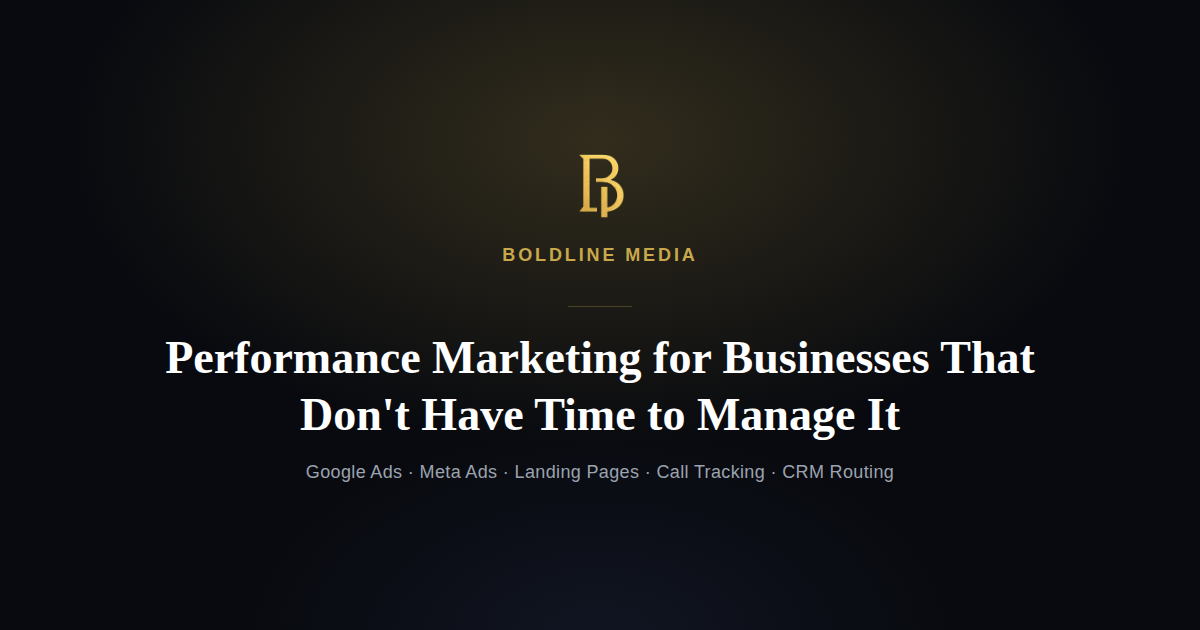
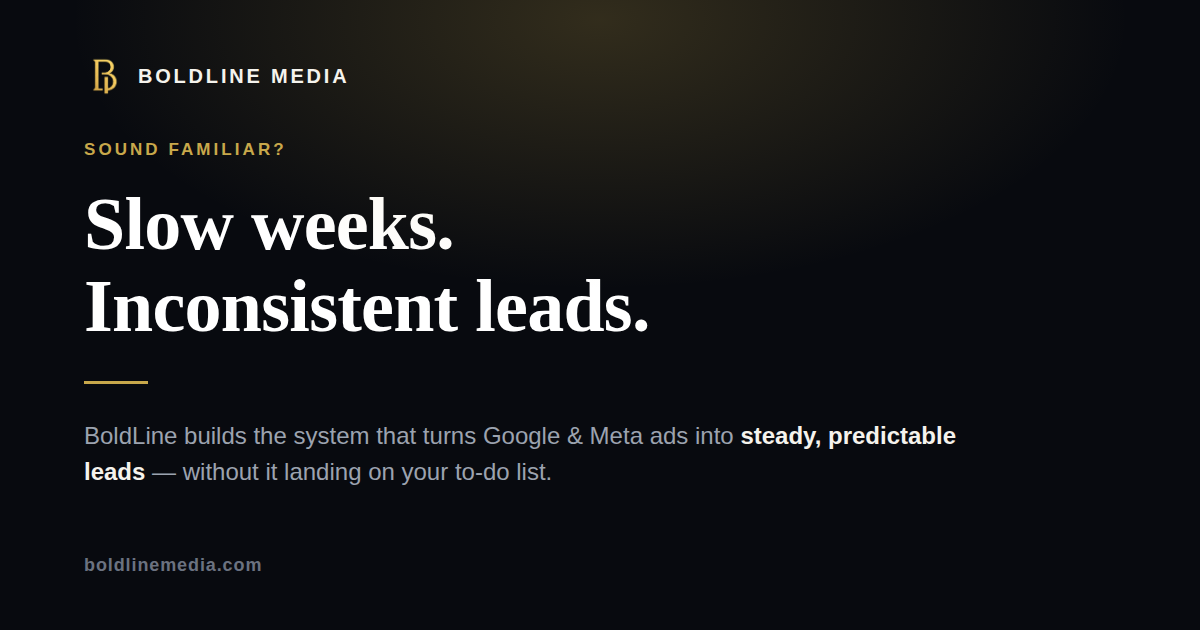
Marketing site v3.0: conversion + aesthetic additions
Adds a fuller funnel and the first visuals to the site:
- Lead-capture form in contact (Netlify Forms) as a low-friction path beside
  Book a Call; honeypot + AJAX success + no-JS fallback.
- "Leads show up sorted" showcase: a pure CSS/HTML lead-feed mockup (first
  real visual), labeled as an illustration.
- FAQ section (native <details>, no-JS safe) + FAQPage JSON-LD.
- Founder note + monogram avatar (placeholder headshot) for human trust.
- Recommender quiz now captures an optional email at the result step.
- Mobile sticky "Book a Call" bar that slides up on scroll.
- Refreshed og-image.png to the pain-led positioning.

Fixed a CSS source-order bug so the new sections' mobile overrides win
(showcase stacks, sticky bar shows). Verified: scripts pass node --check,
overflow clean at 1440/390/360, no JS errors, all states screenshotted.
Owner setup owed: enable Netlify Forms notifications; add a real founder
photo (documented in INTEGRATIONS.md TODO #9-10).

Claude-Session: https://claude.ai/code/session_01TTbUKHBSg7SU5ChV1NCkMy

diff --git a/marketing-site/index.html b/marketing-site/index.html
@@ -24,6 +24,9 @@
 <script type="application/ld+json">
 {"@context":"https://schema.org","@type":"Organization","name":"BoldLine Media","url":"https://boldlinemedia.com/","logo":"https://boldlinemedia.com/logo.png","description":"BoldLine Media plans, builds, and manages Google and Meta ad campaigns — and the landing pages behind them — for a select roster of businesses.","email":"[email redacted]","knowsAbout":["Google Ads management","Meta Ads management","Landing page design","Call tracking","CRM lead routing"]}
 </script>
+<script type="application/ld+json">
+{"@context":"https://schema.org","@type":"FAQPage","mainEntity":[{"@type":"Question","name":"How much does this cost?","acceptedAnswer":{"@type":"Answer","text":"Our management fee depends on the platforms and tier that fit your goals, which we walk you through on a call. Separately, most clients run an ad budget of around $1,000/month or more, paid directly to Google or Meta — you always own that account."}},{"@type":"Question","name":"Do I own my ad account?","acceptedAnswer":{"@type":"Answer","text":"Always. Your Google and Meta accounts stay in your name and are billed directly to you. We only ever hold manager-level access to run them — we never hold, front, or touch your ad spend."}},{"@type":"Question","name":"Am I locked into a long contract?","acceptedAnswer":{"@type":"Answer","text":"No long lock-ins. We earn the relationship month to month, scaling your budget only once the numbers earn it and never without your sign-off."}},{"@type":"Question","name":"How fast will I see results?","acceptedAnswer":{"@type":"Answer","text":"The first few weeks are mostly learning which keywords and audiences convert. Paid ads compound, they are not a light switch — and if your offer or follow-up is not ready to make the most of the clicks, we tell you before you spend."}},{"@type":"Question","name":"What if it's not working?","acceptedAnswer":{"@type":"Answer","text":"We review every account on a set cadence against real performance data and report in plain English. If something isn't working we change it, and if we're genuinely not the right fit we say so."}},{"@type":"Question","name":"Which platforms do you run?","acceptedAnswer":{"@type":"Answer","text":"Google Ads and Meta (Facebook and Instagram), on their own or as one coordinated system, plus the landing pages, call tracking, and lead routing behind them."}}]}
+</script>
 <link rel="preconnect" href="https://fonts.googleapis.com">
 <link rel="preconnect" href="https://fonts.gstatic.com" crossorigin>
 <link href="https://fonts.googleapis.com/css2?family=Playfair+Display:wght@500;600;700&family=Inter:wght@400;500;600;700&display=swap" rel="stylesheet">
@@ -188,10 +191,6 @@ html.js-tabs .tab-panel.active{display:block;animation:fadeUp .5s ease both}
   .hero h1{font-size:34px}
   .hero p{font-size:15.5px;margin-bottom:32px}
   .section-head h2{font-size:27px}
-  #fit{padding:74px 22px}
-  .niche-row{gap:28px 26px;max-width:300px}
-  .fit-sep{margin:44px auto}
-  .fit-check li{font-size:14.5px}
   .nav-links{display:none}
   .nav-toggle{display:flex}
   .nav-right .hdr-cta{display:none}
@@ -254,6 +253,86 @@ html.js-tabs .tab-panel.active{display:block;animation:fadeUp .5s ease both}
 .fit-budget strong{color:var(--gold);font-weight:700}
 .fit-cta{text-align:center;max-width:540px;margin:46px auto 0}
 .fit-cta p{font-size:14px;color:var(--muted);line-height:1.7;margin-bottom:24px}
+
+/* ---- Showcase (leads-in-inbox mockup) ---- */
+.showcase{display:grid;grid-template-columns:1fr 1fr;gap:54px;align-items:center;max-width:1000px;margin:0 auto}
+.showcase-copy .eyebrow{margin-bottom:14px}
+.showcase-copy h2{font-family:var(--serif);font-weight:600;font-size:31px;color:#fff;margin-bottom:16px;line-height:1.25}
+.showcase-copy p{font-size:15px;color:var(--muted);line-height:1.75}
+.inbox{background:var(--card);border:1px solid var(--line);border-radius:16px;padding:8px;box-shadow:0 30px 70px -34px rgba(0,0,0,.8)}
+.inbox-head{display:flex;align-items:center;gap:8px;padding:13px 14px;border-bottom:1px solid var(--line)}
+.inbox-head .dot{width:9px;height:9px;border-radius:50%;background:#2c2f3a}
+.inbox-head .ttl{margin-left:8px;font-size:12px;font-weight:700;letter-spacing:.04em;color:var(--faint);text-transform:uppercase}
+.inbox-row{display:flex;align-items:center;gap:13px;padding:15px 14px;border-bottom:1px solid rgba(255,255,255,.05)}
+.inbox-row:last-child{border-bottom:none}
+.inbox-ic{width:34px;height:34px;border-radius:9px;background:var(--gold-soft);border:1px solid var(--gold-line);display:flex;align-items:center;justify-content:center;flex-shrink:0;color:var(--gold)}
+.inbox-ic svg{width:17px;height:17px}
+.inbox-main{flex:1;min-width:0}
+.inbox-main .t{font-size:13.5px;font-weight:600;color:var(--ink)}
+.inbox-main .s{font-size:11.5px;color:var(--faint);margin-top:2px}
+.inbox-time{font-size:11px;color:var(--faint);flex-shrink:0;white-space:nowrap}
+.showcase-aside{font-size:11.5px;color:var(--faint);text-align:center;margin-top:14px;font-style:italic}
+
+/* ---- FAQ ---- */
+.faq-list{max-width:720px;margin:0 auto;display:flex;flex-direction:column;gap:12px}
+.faq-item{background:var(--card);border:1px solid var(--line);border-radius:12px;overflow:hidden;transition:border-color .25s ease}
+.faq-item[open]{border-color:var(--gold-line)}
+.faq-item summary{list-style:none;cursor:pointer;padding:19px 22px;font-size:15px;font-weight:600;color:var(--ink);display:flex;justify-content:space-between;align-items:center;gap:16px}
+.faq-item summary::-webkit-details-marker{display:none}
+.faq-item summary::after{content:"+";color:var(--gold);font-size:24px;font-weight:300;line-height:1;transition:transform .3s ease;flex-shrink:0}
+.faq-item[open] summary::after{transform:rotate(45deg)}
+.faq-a{padding:0 22px 20px;font-size:14px;color:var(--muted);line-height:1.7}
+.faq-a a{color:var(--gold);text-decoration:none;border-bottom:1px solid var(--gold-line)}
+
+/* ---- Founder ---- */
+.founder{max-width:660px;margin:0 auto;text-align:center}
+.founder-avatar{width:80px;height:80px;border-radius:50%;margin:0 auto 24px;background:linear-gradient(145deg,#1a1d27,#0d0f16);border:1px solid var(--gold-line);display:flex;align-items:center;justify-content:center;font-family:var(--serif);font-size:30px;font-weight:700;color:var(--gold);overflow:hidden}
+.founder-avatar img{width:100%;height:100%;object-fit:cover}
+.founder blockquote{font-family:var(--serif);font-weight:500;font-size:22px;line-height:1.5;color:var(--ink);margin-bottom:22px}
+.founder .sig{font-size:13px;font-weight:600;letter-spacing:.04em;color:var(--gold);text-transform:uppercase}
+
+/* ---- Lead form ---- */
+.contact-or{display:flex;align-items:center;gap:14px;max-width:440px;margin:30px auto 4px;color:var(--faint);font-size:12px;letter-spacing:.08em;text-transform:uppercase}
+.contact-or::before,.contact-or::after{content:"";flex:1;height:1px;background:var(--line)}
+.lead-form{max-width:440px;margin:26px auto 0;text-align:left}
+.lead-form .frow{margin-bottom:13px}
+.lead-form label{display:block;font-size:11.5px;font-weight:600;letter-spacing:.03em;color:var(--muted);margin-bottom:6px}
+.lead-form input,.lead-form textarea{width:100%;padding:12px 14px;font-size:14px;background:rgba(255,255,255,.04);border:1px solid var(--line);border-radius:10px;color:var(--ink);font-family:inherit;transition:border-color .2s ease}
+.lead-form input:focus,.lead-form textarea:focus{outline:none;border-color:var(--gold-line)}
+.lead-form textarea{min-height:92px;resize:vertical}
+.lead-form button{width:100%;margin-top:6px;border:none;cursor:pointer;font-family:var(--sans)}
+.lead-hp{position:absolute;left:-9999px;width:1px;height:1px;overflow:hidden}
+.form-success{display:none;max-width:440px;margin:26px auto 0;background:var(--gold-soft);border:1px solid var(--gold-line);border-radius:12px;padding:22px 24px;text-align:center;font-size:14.5px;color:var(--ink);line-height:1.6}
+.form-success strong{color:var(--gold)}
+
+/* ---- Recommender email capture ---- */
+.rec-email{margin:18px 0 4px;text-align:left}
+.rec-email label{display:block;font-size:12px;color:var(--muted);margin-bottom:8px;line-height:1.5}
+.rec-email .re-row{display:flex;gap:8px}
+.rec-email input{flex:1;min-width:0;padding:11px 13px;font-size:13.5px;background:rgba(255,255,255,.04);border:1px solid var(--line);border-radius:9px;color:var(--ink);font-family:inherit}
+.rec-email input:focus{outline:none;border-color:var(--gold-line)}
+.rec-email button{flex-shrink:0;padding:11px 16px;font-size:12px;font-weight:700;border-radius:9px;border:1px solid var(--gold-line);background:transparent;color:var(--gold);cursor:pointer;font-family:var(--sans);transition:background .2s,color .2s}
+.rec-email button:hover{background:var(--gold);color:#15110A}
+.rec-email .re-done{font-size:13px;color:var(--gold);font-weight:600}
+
+/* ---- Mobile sticky CTA ---- */
+.mobile-cta{display:none}
+
+/* Mobile overrides for the sections defined above (kept after their base rules
+   so they win the cascade at <=840px). */
+@media (max-width:840px){
+  #fit{padding:74px 22px}
+  .niche-row{gap:28px 26px;max-width:300px}
+  .fit-sep{margin:44px auto}
+  .fit-check li{font-size:14.5px}
+  .showcase{grid-template-columns:1fr;gap:36px}
+  .showcase-copy h2{font-size:25px}
+  .founder blockquote{font-size:19px}
+  body{padding-bottom:70px}
+  .mobile-cta{display:flex;position:fixed;left:0;right:0;bottom:0;z-index:60;padding:11px 14px;background:rgba(8,10,15,.94);backdrop-filter:blur(12px);-webkit-backdrop-filter:blur(12px);border-top:1px solid var(--line);transform:translateY(120%);transition:transform .35s cubic-bezier(.2,.7,.2,1)}
+  .mobile-cta.show{transform:translateY(0)}
+  .mobile-cta a{flex:1;text-align:center;padding:14px;font-size:13px;font-weight:700;letter-spacing:.05em;text-transform:uppercase;border-radius:10px;background:var(--gold);color:#15110A;text-decoration:none}
+}
 </style>
 </head>
 <body>
@@ -494,6 +573,37 @@ html.js-tabs .tab-panel.active{display:block;animation:fadeUp .5s ease both}
   </div>
 </section>
 
+<section id="showcase">
+  <div class="showcase reveal">
+    <div class="showcase-copy">
+      <div class="eyebrow">In Your Inbox</div>
+      <h2>Leads show up sorted, not scattered.</h2>
+      <p>Every form fill and tracked call lands in one place — tagged by source, timestamped, with an instant auto-reply already sent on your behalf. You get a steady, organized stream of real prospects instead of chasing scraps across voicemail, email, and sticky notes.</p>
+    </div>
+    <div>
+      <div class="inbox">
+        <div class="inbox-head"><span class="dot"></span><span class="dot"></span><span class="dot"></span><span class="ttl">Leads · BoldLine OS</span></div>
+        <div class="inbox-row">
+          <div class="inbox-ic"><svg viewBox="0 0 24 24" fill="none" stroke="currentColor" stroke-width="1.6" stroke-linecap="round" stroke-linejoin="round"><path d="M5 3h10l4 4v14H5z"/><path d="M8 10h8M8 14h8M8 18h5"/></svg></div>
+          <div class="inbox-main"><div class="t">New lead · Landing page form</div><div class="s">Auto-reply sent · awaiting your call</div></div>
+          <div class="inbox-time">2m ago</div>
+        </div>
+        <div class="inbox-row">
+          <div class="inbox-ic"><svg viewBox="0 0 24 24" fill="none" stroke="currentColor" stroke-width="1.6" stroke-linecap="round" stroke-linejoin="round"><path d="M5 4h4l2 5-3 2a12 12 0 0 0 5 5l2-3 5 2v4a2 2 0 0 1-2 2A16 16 0 0 1 3 6a2 2 0 0 1 2-2Z"/></svg></div>
+          <div class="inbox-main"><div class="t">Call tracked · 3m 41s</div><div class="s">Logged as a new lead automatically</div></div>
+          <div class="inbox-time">26m ago</div>
+        </div>
+        <div class="inbox-row">
+          <div class="inbox-ic"><svg viewBox="0 0 24 24" fill="none" stroke="currentColor" stroke-width="1.6" stroke-linecap="round" stroke-linejoin="round"><circle cx="12" cy="12" r="8"/><circle cx="12" cy="12" r="3"/></svg></div>
+          <div class="inbox-main"><div class="t">New lead · Google Ads</div><div class="s">Nurtured at day 1 + day 3 if no reply</div></div>
+          <div class="inbox-time">1h ago</div>
+        </div>
+      </div>
+      <div class="showcase-aside">Illustration of the lead feed — your real leads, organized the moment they arrive.</div>
+    </div>
+  </div>
+</section>
+
 <section id="process">
   <div class="section-head reveal">
     <div class="eyebrow">Process</div>
@@ -577,13 +687,52 @@ html.js-tabs .tab-panel.active{display:block;animation:fadeUp .5s ease both}
   </div>
 </div>
 
+<!-- FOUNDER: swap the "B" monogram for a real headshot (<img src="/founder.png">)
+     and personalize the quote/name before going live. -->
+<section class="alt" id="founder">
+  <div class="founder reveal">
+    <div class="founder-avatar">B</div>
+    <blockquote>"I keep the roster small on purpose. Too many businesses get handed to a junior and a dashboard they never asked for — here, you get senior attention, honest answers, and ads that are actually managed, not set and forgotten."</blockquote>
+    <div class="sig">— Bryson, Founder of BoldLine Media</div>
+  </div>
+</section>
+
+<section id="faq">
+  <div class="section-head reveal">
+    <div class="eyebrow">Questions</div>
+    <h2>The things people ask first.</h2>
+  </div>
+  <div class="faq-list reveal">
+    <details class="faq-item"><summary>How much does this cost?</summary><div class="faq-a">Our management fee depends on the platforms and tier that fit your goals — we'll walk you through it on the call once we understand what you need. Separately, most clients run an ad budget of around $1,000/month or more, paid directly to Google or Meta (you always own that account).</div></details>
+    <details class="faq-item"><summary>Do I own my ad account?</summary><div class="faq-a">Always. Your Google and Meta accounts stay in your name and are billed directly to you. We only ever hold manager-level access to run them — we never hold, front, or touch your ad spend.</div></details>
+    <details class="faq-item"><summary>Am I locked into a long contract?</summary><div class="faq-a">No long lock-ins. We earn the relationship month to month — scaling your budget only once the numbers earn it, and never without your sign-off. We'll cover exact terms on the call.</div></details>
+    <details class="faq-item"><summary>How fast will I see results?</summary><div class="faq-a">The first few weeks are mostly learning — which keywords and audiences actually convert. Honest answer: paid ads compound, they're not a light switch. And if your offer or follow-up isn't ready to make the most of the clicks, we'll tell you before you spend, not after. (<a href="/blog/is-your-business-ready-for-google-ads/">More on that here.</a>)</div></details>
+    <details class="faq-item"><summary>What if it's not working?</summary><div class="faq-a">We review every account on a set cadence against real performance data and report in plain English — so you always know what's spending, what's converting, and what's wasted. If something isn't working, we change it. If we're genuinely not the right fit, we'll say so.</div></details>
+    <details class="faq-item"><summary>Which platforms do you run?</summary><div class="faq-a">Google Ads and Meta (Facebook &amp; Instagram) — on their own or as one coordinated system — plus the landing pages, call tracking, and lead routing behind them. <a href="#services">See the packages above.</a></div></details>
+  </div>
+</section>
+
 <section id="contact">
   <div class="contact-box reveal">
     <div class="eyebrow">Get Started</div>
     <h2>Start a conversation.</h2>
     <p>Tell us about your business and where you're trying to grow. We'll get back to you shortly — and let you know honestly whether we're a fit.</p>
     <a class="btn" href="https://calendly.com/theboldlinemedia/30min" target="_blank" rel="noopener noreferrer">Book a Call</a>
-    <div class="contact-line" style="margin-top:24px">✉️ <a href="mailto:[email redacted]">[email redacted]</a></div>
+
+    <div class="contact-or">or send a message</div>
+
+    <form class="lead-form" id="leadForm" name="contact" method="POST" data-netlify="true" netlify-honeypot="bot-field">
+      <input type="hidden" name="form-name" value="contact">
+      <p class="lead-hp"><label>Leave this empty: <input name="bot-field"></label></p>
+      <div class="frow"><label for="lf-name">Name</label><input id="lf-name" type="text" name="name" required></div>
+      <div class="frow"><label for="lf-biz">Business</label><input id="lf-biz" type="text" name="business" required></div>
+      <div class="frow"><label for="lf-email">Email</label><input id="lf-email" type="email" name="email" required></div>
+      <div class="frow"><label for="lf-msg">What's your biggest challenge right now?</label><textarea id="lf-msg" name="message"></textarea></div>
+      <button class="btn" type="submit">Send Message</button>
+    </form>
+    <div class="form-success" id="formSuccess"><strong>Got it — thanks!</strong><br>We'll be in touch shortly. If it's urgent, book a call above.</div>
+
+    <div class="contact-line" style="margin-top:28px">✉️ <a href="mailto:[email redacted]">[email redacted]</a></div>
   </div>
 </section>
 
@@ -591,6 +740,8 @@ html.js-tabs .tab-panel.active{display:block;animation:fadeUp .5s ease both}
   <div class="word">BoldLine Media</div>
   <div class="copy">© 2026 BoldLine Media. All rights reserved.</div>
 </footer>
+
+<div class="mobile-cta" id="mobileCta"><a href="https://calendly.com/theboldlinemedia/30min" target="_blank" rel="noopener noreferrer">Book a Call</a></div>
 
 <div class="modal-overlay" id="recModal" hidden>
   <div class="modal" role="dialog" aria-modal="true" aria-labelledby="recTitle">
@@ -642,6 +793,14 @@ html.js-tabs .tab-panel.active{display:block;animation:fadeUp .5s ease both}
         <a class="btn" id="recBook" href="https://calendly.com/theboldlinemedia/30min" target="_blank" rel="noopener noreferrer">Book a Call</a>
         <button type="button" class="btn-outline" id="recSee">See this package</button>
       </div>
+      <form class="rec-email" id="recEmailForm" name="recommendation" method="POST" data-netlify="true" netlify-honeypot="bot-field">
+        <input type="hidden" name="form-name" value="recommendation">
+        <input type="hidden" name="recommended" id="recRecommended" value="">
+        <p class="lead-hp"><label>Leave this empty: <input name="bot-field"></label></p>
+        <label for="re-email">Not ready to book? Drop your email and we'll follow up with a tailored plan — no spam.</label>
+        <div class="re-row"><input id="re-email" type="email" name="email" placeholder="[email redacted]"><button type="submit">Send it</button></div>
+      </form>
+      <div class="rec-email re-done" id="recEmailDone" hidden>Got it — we'll be in touch. ✓</div>
       <p class="modal-fine">A starting point, not a quote — we'll confirm the right fit with you on the call. Your ad account always stays owned and paid for by you.</p>
       <button type="button" class="link-btn" id="recRestart">Start over</button>
     </div>
@@ -742,6 +901,9 @@ html.js-tabs .tab-panel.active{display:block;animation:fadeUp .5s ease both}
     document.getElementById('recHeadline').innerHTML =
       'We’d start you with the <strong>' + tierName + '</strong> on <strong>' + f.label + '</strong>.';
     document.getElementById('recWhy').textContent = recBody(answers.channel, fam, tierName, f.label);
+    var rf = document.getElementById('recEmailForm'), rd = document.getElementById('recEmailDone');
+    if(rf){ rf.reset(); rf.hidden = false; var recd = rf.querySelector('#recRecommended'); if(recd) recd.value = tierName + ' on ' + f.label; }
+    if(rd) rd.hidden = true;
     document.getElementById('recSee').onclick = function(){
       closeModal();
       var tabBtn = document.querySelector('.tab[data-tab="' + f.tab + '"]');
@@ -761,7 +923,12 @@ html.js-tabs .tab-panel.active{display:block;animation:fadeUp .5s ease both}
   var header = document.querySelector('header');
   if(!header) return;
   header.classList.add('nav-in');
-  var onScroll = function(){ header.classList.toggle('scrolled', window.scrollY > 12); };
+  var mcta = document.getElementById('mobileCta');
+  var onScroll = function(){
+    var y = window.scrollY;
+    header.classList.toggle('scrolled', y > 12);
+    if(mcta) mcta.classList.toggle('show', y > 700);
+  };
   onScroll();
   window.addEventListener('scroll', onScroll, { passive:true });
   var toggle = header.querySelector('.nav-toggle');
@@ -778,6 +945,46 @@ html.js-tabs .tab-panel.active{display:block;animation:fadeUp .5s ease both}
         toggle.classList.remove('open');
         toggle.setAttribute('aria-expanded', 'false');
       });
+    });
+  }
+})();
+</script>
+
+<script>
+(function(){
+  function encode(data){ return Object.keys(data).map(function(k){ return encodeURIComponent(k)+"="+encodeURIComponent(data[k]); }).join("&"); }
+  function submitNetlify(form, onOk, onErr){
+    var data = {}; new FormData(form).forEach(function(v,k){ data[k]=v; });
+    fetch("/", { method:"POST", headers:{"Content-Type":"application/x-www-form-urlencoded"}, body: encode(data) })
+      .then(function(r){ r.ok ? onOk() : (onErr && onErr()); })
+      .catch(function(){ onErr && onErr(); });
+  }
+
+  var lead = document.getElementById('leadForm');
+  var leadOk = document.getElementById('formSuccess');
+  if(lead){
+    lead.addEventListener('submit', function(e){
+      e.preventDefault();
+      if(!lead.checkValidity()){ lead.reportValidity(); return; }
+      var btn = lead.querySelector('button[type=submit]');
+      if(btn){ btn.disabled = true; btn.textContent = "Sending…"; }
+      submitNetlify(lead, function(){
+        lead.style.display = "none";
+        if(leadOk) leadOk.style.display = "block";
+      }, function(){
+        if(btn){ btn.disabled = false; btn.textContent = "Send Message"; }
+        alert("Something went wrong — please email [email redacted].");
+      });
+    });
+  }
+
+  var rform = document.getElementById('recEmailForm');
+  var rdone = document.getElementById('recEmailDone');
+  if(rform){
+    rform.addEventListener('submit', function(e){
+      e.preventDefault();
+      if(!rform.checkValidity()){ rform.reportValidity(); return; }
+      submitNetlify(rform, function(){ rform.hidden = true; if(rdone) rdone.hidden = false; });
     });
   }
 })();

diff --git a/docs/INTEGRATIONS.md b/docs/INTEGRATIONS.md
@@ -541,6 +541,41 @@ automation below, which reuses it. No action needed; just a doc gap fix.)
     duplication).
   - Verified desktop + mobile (icons reflow to a 2×2 grid on phones) in headless
     Chromium, no JS errors.
+- **v3.0 update (2026-06-28): conversion + aesthetic additions.** After a full review,
+  Bryson asked to add everything recommended to tighten the funnel and polish the look.
+  All in `marketing-site/index.html` (+ a re-rendered `og-image.png`):
+  - **Lead-capture form** in the contact section — a lower-friction path beside "Book a
+    Call" (every CTA previously went only to Calendly, capturing only people ready to
+    book today). Name / business / email / "biggest challenge," via **Netlify Forms**
+    (no backend, no env vars) with a honeypot, AJAX submit + inline success, and a no-JS
+    fallback. *Needs Bryson to switch on form notifications — see TODO #9.*
+  - **"Leads show up sorted" showcase** — the first real visual on the site: a pure
+    CSS/HTML mockup of the lead feed (form / tracked call / Google Ads rows), clearly
+    labeled an illustration. Breaks up the all-text page and shows the product.
+  - **FAQ section** with a native `<details>` accordion (works with JS off) answering the
+    six objections that kill conversions (cost, account ownership, contract, speed,
+    "what if it's not working," platforms) — plus **FAQPage JSON-LD** for Google
+    rich-results.
+  - **Founder section** — a short signed note + monogram avatar to humanize the boutique
+    positioning (honest trust, no fake testimonials). *Placeholder — swap the "B" for a
+    real headshot + personalize the quote, see TODO #10.*
+  - **Recommender quiz now also captures an optional email** at the result step (same
+    Netlify Forms mechanism, recommended package attached), so quiz-takers who don't book
+    still become a lead.
+  - **Mobile sticky "Book a Call" bar** that slides up after scrolling — the CTA is
+    always one tap away on phones.
+  - **Refreshed the OG/social-share image** to the new pain-led positioning ("Slow weeks.
+    Inconsistent leads." + the solution line), re-rendered from a matching share card so
+    link previews match the current site.
+  - **Deliberately NOT added:** testimonials / client logos / stats — no real clients
+    yet, and honesty is the site's edge.
+  - **Verification:** every inline script passes `node --check`; full-site overflow check
+    is clean at 1440 / 390 / 360px with no JS errors; screenshotted every new section on
+    desktop + mobile and exercised the quiz, the form (success state), and the sticky
+    bar. Caught + fixed a CSS source-order bug (new sections' mobile overrides sat before
+    their base rules, so the showcase wasn't stacking and the sticky bar stayed hidden) by
+    moving them into a media block after the base rules. **Not testable in this sandbox:**
+    real Netlify Forms capture only activates on the live deploy (TODO #9).
 - **TODO (Bryson's side, click-by-click owed before resubmitting):**
   1. **Create a second Netlify site** from this same repo — in the Netlify dashboard,
      "Add new site" → "Import an existing project" → pick the `boldline-os` repo
@@ -592,6 +627,19 @@ automation below, which reuses it. No action needed; just a doc gap fix.)
      `SUPABASE_URL` is a non-secret constant baked directly into the code, the same
      convention the existing report-generation features already use, so it doesn't
      need an env var.)*
+  9. **Turn on lead-form notifications** (new, v3.0) — the contact form and the
+     recommender's email capture use Netlify Forms, which auto-activate once the
+     marketing site is deployed (TODO #1). To get emailed on every submission: in the
+     new site's dashboard go to **Forms** → select the `contact` form (and
+     `recommendation`) → **Settings & notifications** → **Add notification** → **Email
+     notification** → send to `[email redacted]`. Submissions are also always
+     listed under **Forms**. Nothing to deploy — just this one-time toggle.
+  10. **Personalize the founder section** (new, v3.0) — optional but recommended: drop a
+      real headshot at `marketing-site/founder.png`, then in the `#founder` block of
+      `index.html` change the avatar from the "B" monogram to
+      `<img src="/founder.png" alt="Bryson">`, and tweak the quote/name to your own
+      words. It's marked with an HTML comment so it's easy to find — or send me the photo
+      and I'll wire it in.
 
 ## Stripe (BoldLine service-fee billing) — NOT started ⏳
 - Purpose: bill clients **BoldLine's management/service fee only**. NOT ad spend —